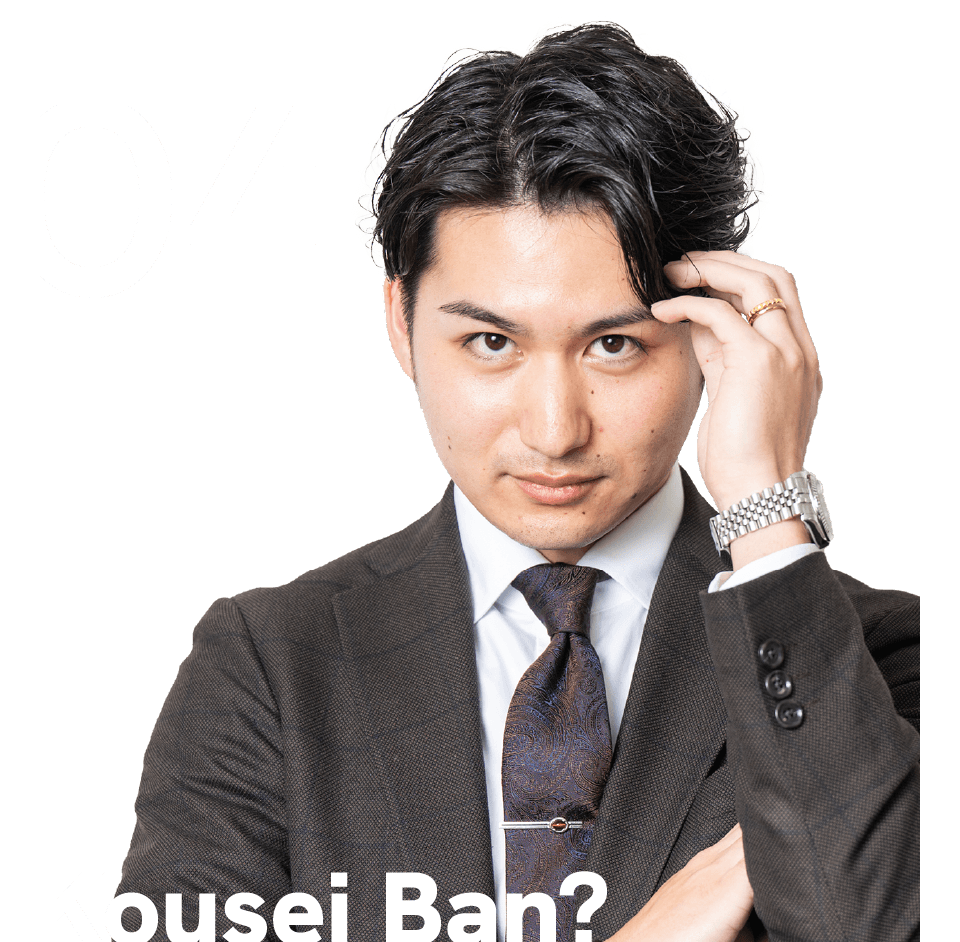
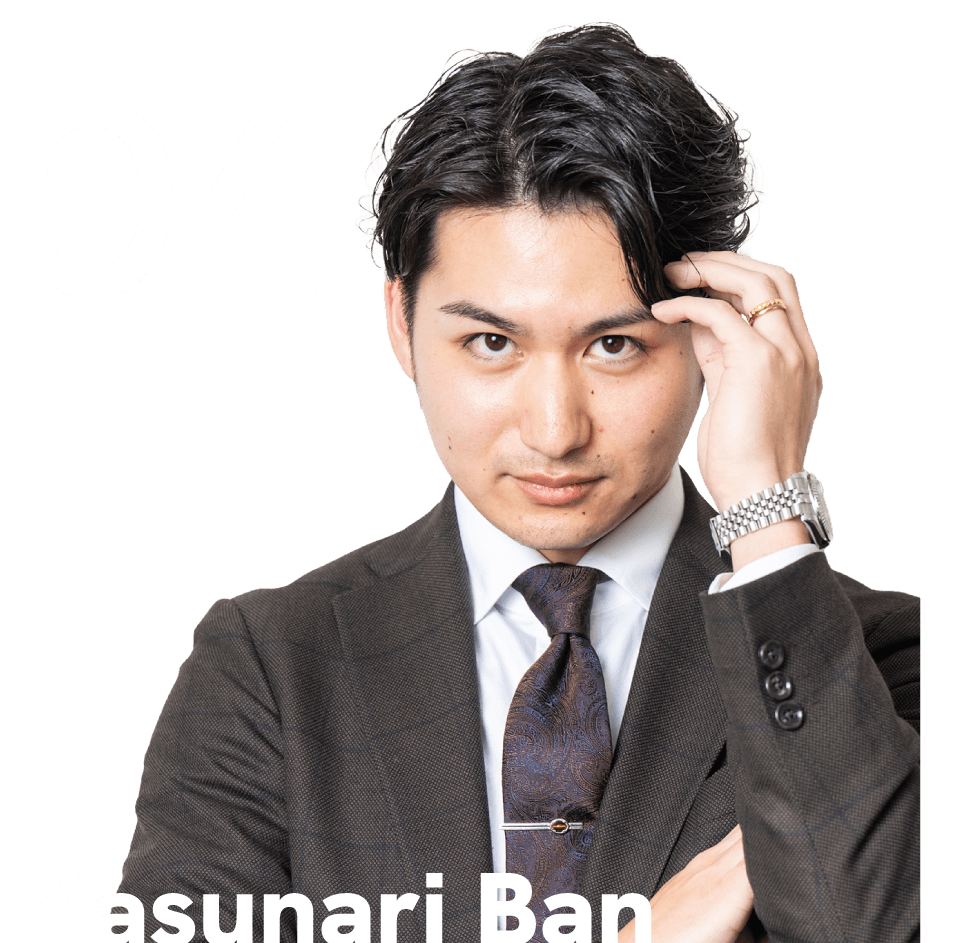
ビルドエラーを修正

diff --git a/functions.php b/functions.php
@@ -3,10 +3,7 @@
  * Theme Functions
  */
 
-// Enable error logging for debugging (safe to leave in dev/staging)
-ini_set('display_errors', 1);
-ini_set('display_startup_errors', 1);
-error_reporting(E_ALL);
+// Enable error logging for debugging is now handled conditionally below
 
 // ローカル環境判定 (修正版)
 // localhostが含まれる、またはIPがローカルの場合判定
@@ -23,6 +20,16 @@ if (strpos($http_host, 'localhost') !== false) {
 }
 
 define('IS_VITE_DEVELOPMENT', $is_local);
+
+if (IS_VITE_DEVELOPMENT) {
+    ini_set('display_errors', 1);
+    ini_set('display_startup_errors', 1);
+    error_reporting(E_ALL);
+} else {
+    ini_set('display_errors', 0);
+    ini_set('display_startup_errors', 0);
+    error_reporting(E_ALL & ~E_DEPRECATED & ~E_USER_DEPRECATED);
+}
 
 function langis_enqueue_scripts()
 {
